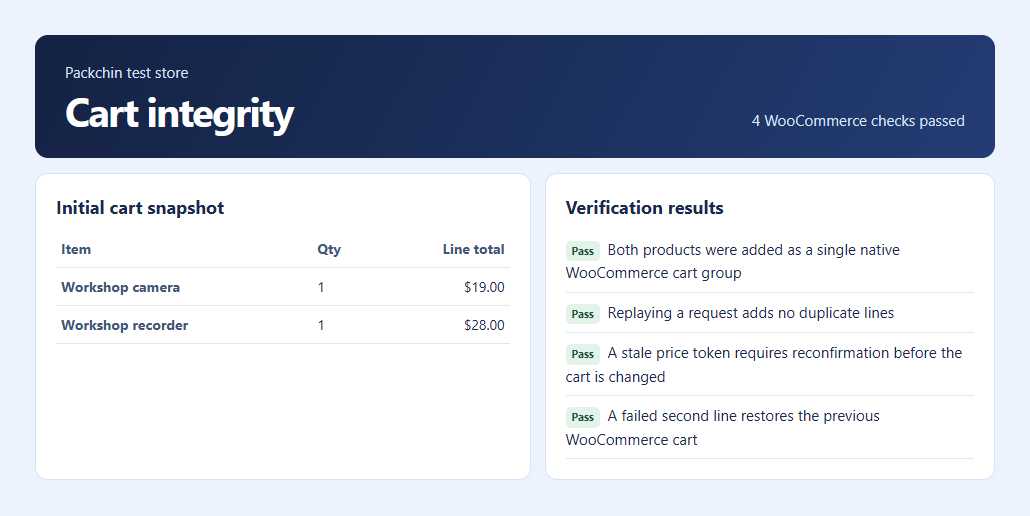
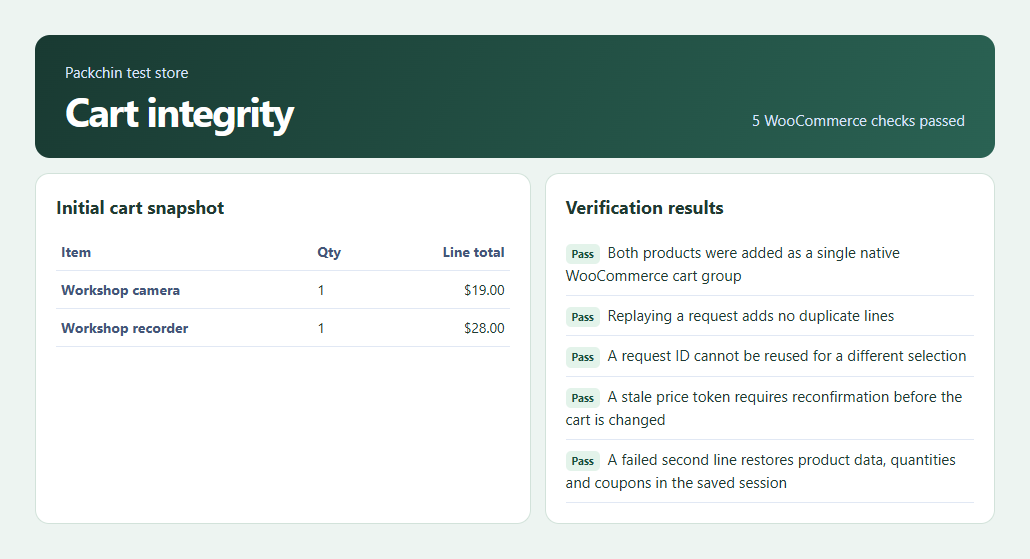
Refresh portfolio evidence and enforce audited coding standards

diff --git a/tests/cart-report.php b/tests/cart-report.php
@@ -9,12 +9,12 @@ defined( 'ABSPATH' ) || exit;
 	<meta name="viewport" content="width=device-width,initial-scale=1">
 	<title>Packchin Cart Integrity</title>
 	<style>
-		* {box-sizing:border-box} body {margin:0;background:#edf3fc;color:#192a50;font:15px/1.5 system-ui,sans-serif}
+		* {box-sizing:border-box} body {margin:0;background:#edf4f1;color:#203a32;font:15px/1.5 system-ui,sans-serif}
 		main {max-width:1030px;margin:auto;padding:clamp(12px,3.4vw,35px)}
-		header {background:linear-gradient(118deg,#142243,#233c73);color:white;border-radius:13px;padding:26px 30px;display:flex;justify-content:space-between;gap:20px;flex-wrap:wrap;align-items:end}
+		header {background:linear-gradient(118deg,#193a32,#2a6253);color:white;border-radius:15px;padding:26px 30px;display:flex;justify-content:space-between;gap:20px;flex-wrap:wrap;align-items:end}
 		header p {margin:0;color:#dae5fb} h1 {font-size:clamp(25px,4vw,40px);letter-spacing:-.044em;line-height:1.08;margin:5px 0 0}
 		.panels {display:grid;grid-template-columns:minmax(0,1.1fr) minmax(0,1fr);gap:14px;margin-top:15px}
-		section {min-width:0;background:#fff;border:1px solid #d7e2f3;border-radius:12px;padding:20px} h2 {margin:0 0 9px;font-size:18px}
+		section {min-width:0;background:#fff;border:1px solid #d2e2da;border-radius:14px;padding:20px} h2 {margin:0 0 12px;font-size:18px}
 		table {width:100%;border-collapse:collapse;text-align:start;font-size:14px}
 		th,td {padding:8px 5px;border-block-end:1px solid #e1e8f4;text-align:start} th {color:#435578;font-weight:650}
 		td:last-child,thead th:last-child {text-align:end;white-space:nowrap}

diff --git a/README.md b/README.md
@@ -1,5 +1,7 @@
 # Packchin Cart Integrity
 
+**What to try.** Run the WooCommerce fixture to verify that a failed kit addition restores the cart and a retried request leaves one copy.
+
 [![WordPress and WooCommerce integration checks](https://github.com/aa71200/packchin-cart-integrity/actions/workflows/checks.yml/badge.svg?branch=main)](https://github.com/aa71200/packchin-cart-integrity/actions/workflows/checks.yml)
 
 A failed kit item should leave the cart as it was, and a repeated request should leave it with one copy. This fixture exercises the original **Packchin 0.1.0** cart transaction and quote path against native WooCommerce cart lines.
